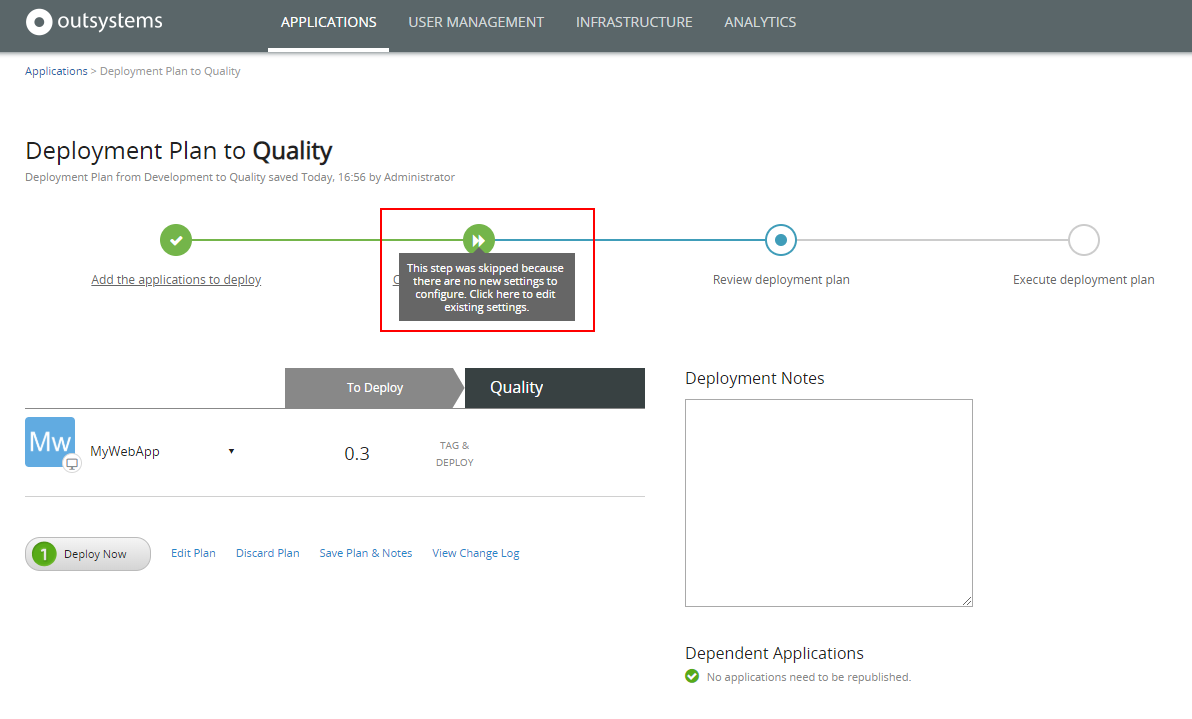
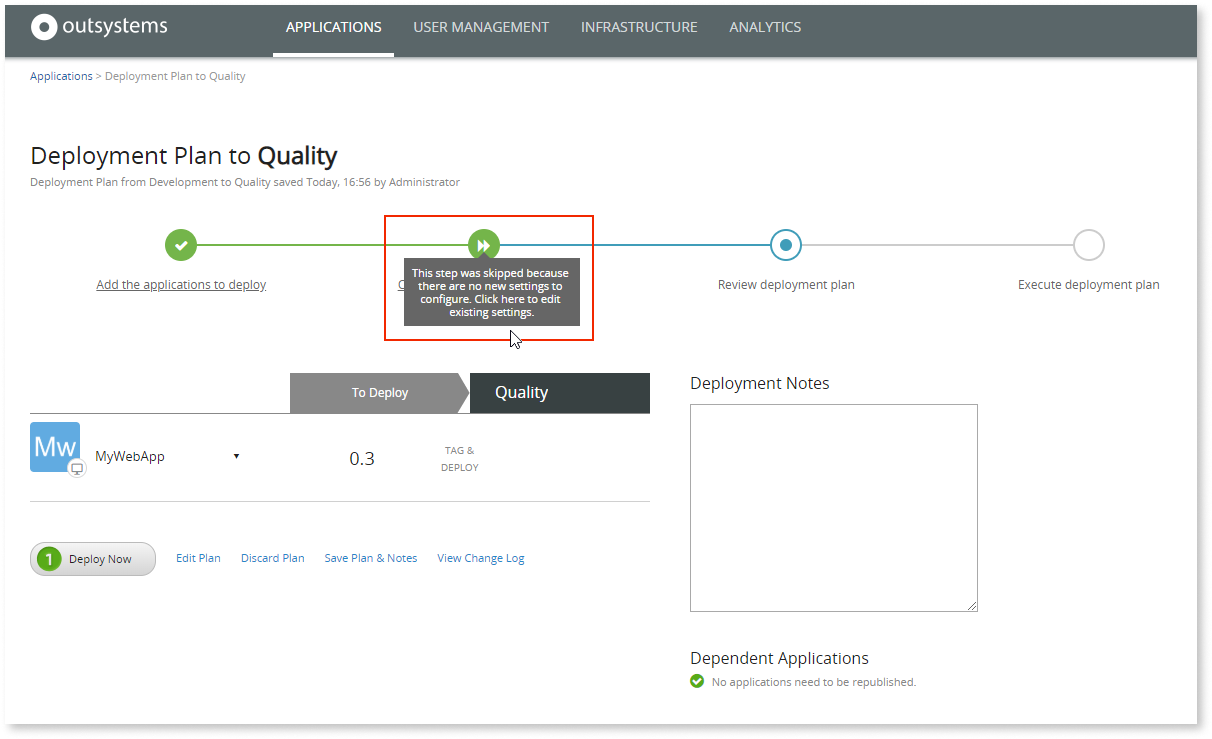
Updated screenshots and added ALT images - TK-6189 (#506)

diff --git a/src/managing-the-applications-lifecycle/deploy-applications/tp-configure-site-properties-during-deploy.md b/src/managing-the-applications-lifecycle/deploy-applications/tp-configure-site-properties-during-deploy.md
@@ -10,7 +10,7 @@ app_type: traditional web apps, mobile apps, reactive web apps
 
 You can configure your applications' Site Properties in the target environment during the deployment plan.
 
-![](images/configure-settings-during-deploy-1.gif)
+![Configure your applications' Site Properties](images/configure-settings-during-deploy-1.gif)
 
 <div class="info" markdown="1">
 
@@ -20,13 +20,13 @@ Make sure the user executing the deployment has the "Change & Deploy Application
 
 The deployment plan wizard enables you to configure the Site Properties of the applications being deployed during the step **Configure application settings**.
 
-![](images/configure-settings-during-deploy-2.png?width=800)
+![Configure applications settings step](images/configure-settings-during-deploy-2.png)
 
 When deploying applications, after adding the applications to your deployment plan, the deployment plan wizard takes you to the step **Configure application settings**.
 
 If there are application modules in the plan with new Site Properties that were never set in the target environment, you can define in this step the **Effective value** for those Site Properties in the target environment.
 
-![](images/configure-site-settings-during-deploy-3.png?width=800)
+![Define the Effective value for Site Properties](images/configure-site-settings-during-deploy-3.png)
 
 In the deployment plan wizard, you can also see and change the existing settings of the applications to deploy. Click the button **All settings** to see the existing settings.
 
@@ -36,7 +36,7 @@ There are some situations when this step is **skipped** or **disabled**:
 
 * The step is **skipped** when there are no new settings to configure. However, if you need to change any existing setting, you can manually go back to **Configure application settings** by clicking the step in the wizard.
 
-    ![](images/configure-settings-during-deploy-4.png?width=800)
+    ![Configure applications settings step skipped](images/configure-settings-during-deploy-4.png)
 
 * The step is **disabled** when there aren't any settings to configure or the user executing the deployment doesn't have the required permissions.
 
